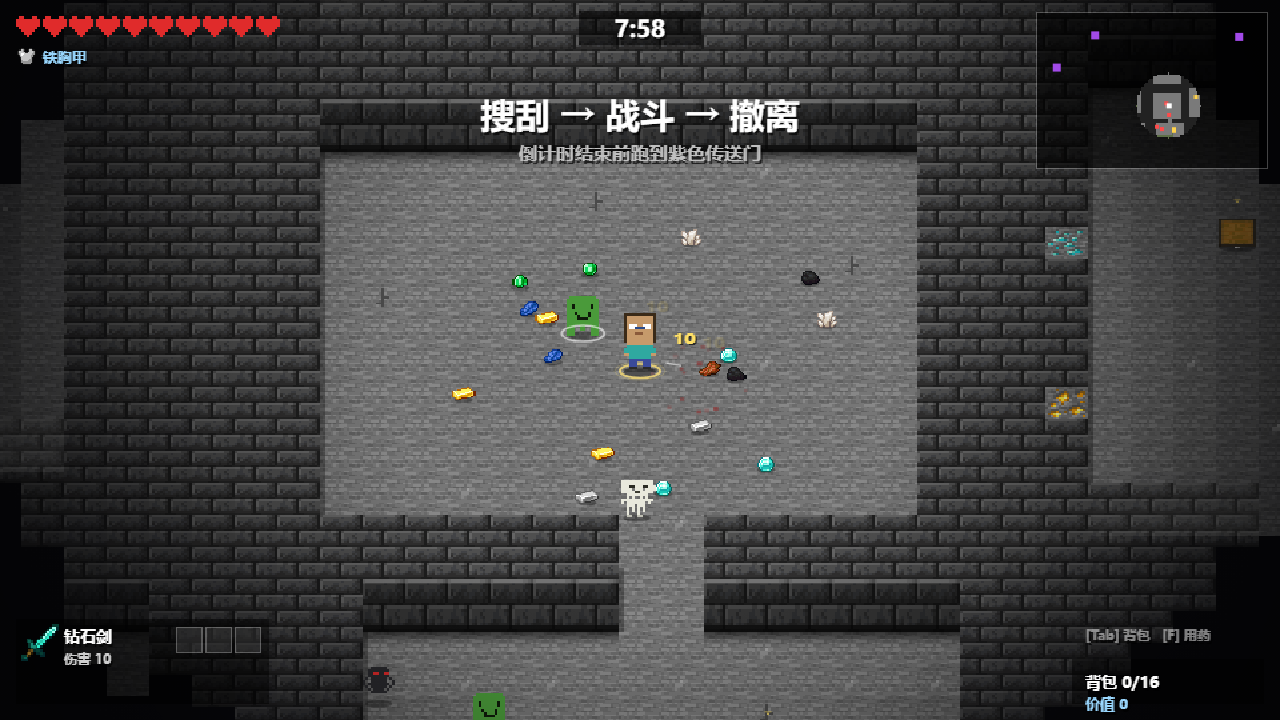
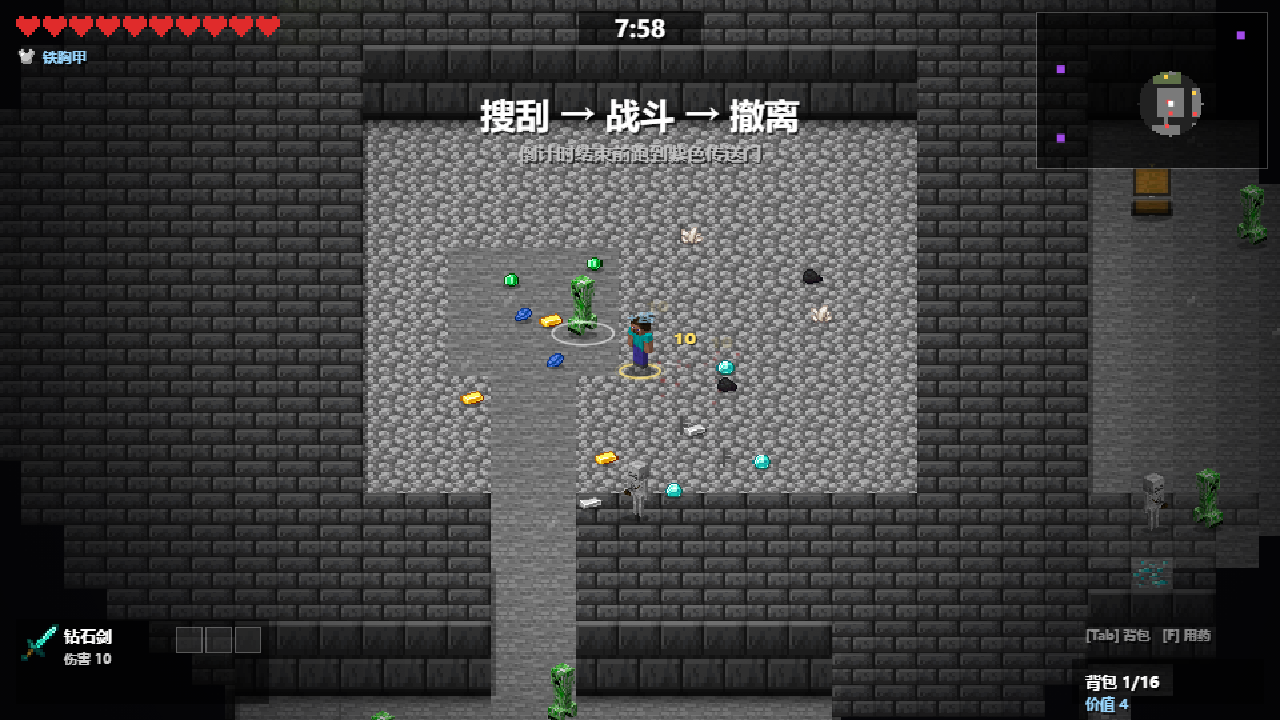
feat: 角色恢复官方 3D 渲染素材；墙/箱子/传送门统一画成立体方块，锁定 2.5D 斜俯视

diff --git a/js/render.js b/js/render.js
@@ -119,7 +119,7 @@
 
     // ---- 2. 墙体：整块「顶面 + 正面」，像真的立在地面上 ----
     const KY = E.Cam.KY;
-    const WALL_H = 40;                 // 墙面高度（屏幕像素）
+    const WALL_H = 56;                 // 墙面高度（屏幕像素）
     const faceTex = P.wallFace(g.world.wallTex, WALL_H);
     for (let ty = y0; ty <= y1; ty++) {
       for (let tx = x0; tx <= x1; tx++) {
@@ -137,6 +137,29 @@
           : (t === Wd.T.WALL ? P.wallVar(g.world.wallTex, (tx * 7 + ty * 13) % 3) : P.tile(Wd.texName(g.world, t)));
         // 顶面：整体上抬 WALL_H，看上去是“站在地上的方块”的上表面
         ctx.drawImage(topTex, sx, baseY - TILE - WALL_H / KY, TILE, TILE);
+        // 顶面描边：让每块砖都看得出是一块方块
+        ctx.strokeStyle = 'rgba(0,0,0,0.22)';
+        ctx.lineWidth = 1;
+        ctx.strokeRect(sx + 0.5, baseY - TILE - WALL_H / KY + 0.5, TILE - 1, TILE - 1);
+        // 侧面（贴墙的垂直面）：左右相邻是地面时给一条暗边，方块感更强
+        const westFloor = tx > 0 && !Wd.isSolidTile(g.world.tiles[i - 1]);
+        const eastFloor = tx < g.world.w - 1 && !Wd.isSolidTile(g.world.tiles[i + 1]);
+        if (westFloor || eastFloor) {
+          ctx.save();
+          ctx.translate(sx, baseY);
+          ctx.scale(1, 1 / KY);
+          if (westFloor) {
+            ctx.drawImage(faceTex, 0, 0, 7, WALL_H, 0, -WALL_H, 7, WALL_H);
+            ctx.fillStyle = 'rgba(0,0,0,0.30)';
+            ctx.fillRect(0, -WALL_H, 7, WALL_H);
+          }
+          if (eastFloor) {
+            ctx.drawImage(faceTex, 25, 0, 7, WALL_H, TILE - 7, -WALL_H, 7, WALL_H);
+            ctx.fillStyle = 'rgba(0,0,0,0.30)';
+            ctx.fillRect(TILE - 7, -WALL_H, 7, WALL_H);
+          }
+          ctx.restore();
+        }
         // 正面：只有南边是可走地面才画（朝镜头的一面）
         const southTile = ty + 1 < g.world.h ? g.world.tiles[i + g.world.w] : Wd.T.VOID;
         if (!Wd.isSolidTile(southTile) && southTile !== Wd.T.VOID) {
@@ -177,40 +200,49 @@
       }
     }
 
-    // 容器（贴图本身就是俯视方块，加一点“立起来”的厚度）
+    // 容器：画成有厚度的小方块（顶面 + 正面）
+    const CH = 14;
     for (const c of g.world.containers) {
       if (!g.world.seen[c.ty * g.world.w + c.tx]) continue;
       const texName = c.type === 'chest' ? 'chest' : c.type === 'furnace' ? 'furnace' : 'crafting';
+      const baseY = c.y + 16;
       ctx.save();
-      ctx.globalAlpha = c.opened ? 0.5 : 1;
-      shadowEllipse(ctx, c.x, c.y + 15, 14, 5);
-      ctx.drawImage(P.tile(texName), c.x - 16, c.y - 16);
+      ctx.globalAlpha = c.opened ? 0.45 : 1;
+      shadowEllipse(ctx, c.x, baseY + 1, 15, 5);
+      ctx.drawImage(P.tile(texName), c.x - 16, baseY - TILE - CH / E.Cam.KY, 32, 32);
+      ctx.translate(c.x - 16, baseY);
+      ctx.scale(1, 1 / E.Cam.KY);
+      ctx.drawImage(P.wallFace(texName, CH), 0, -CH, 32, CH);
       ctx.restore();
       if (!c.opened) {
         const bob = Math.sin(g.time * 3 + c.x) * 1.5;
         ctx.globalAlpha = 0.8;
         ctx.fillStyle = '#ffe066';
-        ctx.fillRect(c.x - 1, c.y - 30 + bob, 2, 2);
-        ctx.fillRect(c.x - 2.5, c.y - 31.5 + bob, 5, 1);
+        ctx.fillRect(c.x - 1, c.y - 34 + bob, 2, 2);
+        ctx.fillRect(c.x - 2.5, c.y - 35.5 + bob, 5, 1);
         ctx.globalAlpha = 1;
       }
     }
   }
 
   function srcPortal(ctx, x, y, t) {
-    // 简易下界传送门：黑紫方块 + 流动亮点
-    const w = 40, h = 52;
+    // 立起来的传送门：底部贴地，竖直方向不压缩
+    const w = 44, h = 56;
+    const KY = E.Cam.KY;
     ctx.save();
-    ctx.translate(x, y);
+    ctx.translate(x, y + 22);
+    ctx.scale(1, 1 / KY);
+    ctx.translate(-w / 2, -h);
+    const t0 = performance.now() / 1000;
     ctx.fillStyle = '#160b22';
-    ctx.fillRect(-w / 2, -h / 2, w, h);
+    ctx.fillRect(0, 0, w, h);
     ctx.strokeStyle = '#3a1a55';
     ctx.lineWidth = 3;
-    ctx.strokeRect(-w / 2, -h / 2, w, h);
+    ctx.strokeRect(0, 0, w, h);
     for (let i = 0; i < 8; i++) {
-      const a = t * 1.4 + i * 1.7;
-      const px = Math.sin(a) * 13;
-      const py = Math.cos(a * 1.3) * 20;
+      const a = (t || t0) * 1.4 + i * 1.7;
+      const px = w / 2 + Math.sin(a) * 13;
+      const py = h / 2 + Math.cos(a * 1.3) * 20;
       ctx.globalAlpha = 0.35 + 0.35 * Math.sin(a * 2);
       ctx.fillStyle = i % 2 ? '#b06ae8' : '#e0b0ff';
       const s = 3 + (i % 3);

diff --git a/js/pixel.js b/js/pixel.js
@@ -1067,7 +1067,7 @@
    * 成功加载 assets/tex/*.png 就覆盖程序化像素图；任意一张失败自动回退
    * ============================================================ */
   P.assets = { items: {}, tiles: {}, mobs: {}, faces: {} };
-  P.mobStyle = '2d';
+  P.mobStyle = '3d';
   P.assetCount = 0;
   const assetURLs = new Map();
   const _itemSpec = P.itemSpec, _item = P.item, _itemURL = P.itemURL;

diff --git a/js/game.js b/js/game.js
@@ -44,7 +44,7 @@
     MCX.UI.init(this);
     this.state = 'base';
     const params0 = new URLSearchParams(location.search);
-    if (params0.get('style') === '3d') MCX.PX.mobStyle = '3d';
+    if (params0.get('style') === '2d') MCX.PX.mobStyle = '2d';
     if (location.search.indexOf('smoke') >= 0) {
       // 冒烟测试：不启动 RAF，由 js/smoke.js 驱动 tick
       window.__MCX_READY = true;

diff --git a/README.md b/README.md
@@ -68,12 +68,12 @@
 |---|---|---|
 | 物品图标 41 张 | `ItemSprite_*.png`（16×16） | 钻石、金锭、铁锭、绿宝石、红石、青金石、石英、远古残骸、木剑→下界合金剑、弓弩镐、胸甲、收纳袋、药水、TNT、末影珍珠…… |
 | 方块贴图 27 张 | `BlockSprite_*.png`（16×16） | 草方块顶面、石头、橡木木板、圆石、深板岩、下界岩、砂砾、苔藓块、石砖/深板岩砖墙、9 种矿石、下界传送门、熔炉、工作台、木桶、箱子顶面、红花/红蘑菇装饰 |
-| 生物头像 8 张 | `EntitySprite_*.png`（16×16） | 僵尸、骷髅、苦力怕、蜘蛛、史莱姆、末影人、烈焰人、凋灵的官方正面头像 |
-| 生物渲染图 9 张 | `Steve / Zombie / ... / Wither` | 仅 `?style=3d` 时启用（默认不用） |
+| 生物头像 8 张 | `EntitySprite_*.png`（16×16） | 备用 2D 素材（`?style=2d` 时拼 Q 版小人） |
+| 生物渲染图 9 张 | `Steve / Zombie / ... / Wither` | 默认使用，官方 3D 渲染，等比缩放到 30~92px |
 
-**角色是 2D 像素小人**：身体是手绘的 Q 版像素格（`js/pixel.js` 的 `CHIBI_BODY`），头直接用官方 16×16 头像贴上去——所以既保留了 Wiki 的原版辨识度，又不是 3D 渲染图那种"塑料模型"感。
+**角色用官方原版素材**：玩家和 8 种怪物都是 Minecraft Wiki 的官方 3D 渲染图（`Steve / Zombie / Skeleton / Creeper / Spider / Slime / Enderman / Blaze / Wither`），按各自比例缩放到 30~92px 高，竖直方向单独反压缩，所以地面是斜的、人是立的；脚下有接触阴影，玩家额外有金色光环。想看 2D 头像小人可以加 `?style=2d`。
 
-**视角是 2.5D 斜俯视**：整张地图按 `KY = 0.75` 纵向压缩，墙格画成「上表面 + 竖直正面」的立体方块（正面 40px 高），角色站在地面上、按真实像素高度绘制（凌驾于压缩比之上），所以地面是斜的、人是立的。想调：`js/engine.js` 里 `Cam.KY`（`0.6` 更斜、`1` 纯俯视）。
+**视角锁定为 2.5D 斜俯视**：整张地图按 `KY = 0.75` 纵向压缩，每个墙格画成「上表面 + 竖直正面（56px）」的立体方块，木箱/熔炉/工作台也是有厚度的小方块，传送门立在地上。想调：`js/engine.js` 里 `Cam.KY`（`0.6` 更斜、`1` 纯俯视）。
 
 - 缺图 / 断网时会**自动回退**到 `js/pixel.js` 里的程序化像素图，不会白屏。
 - 想换别的皮肤包：把同名 PNG 丢进 `assets/tex/`（16×16 物品与方块、16×16 生物头像）即可。
